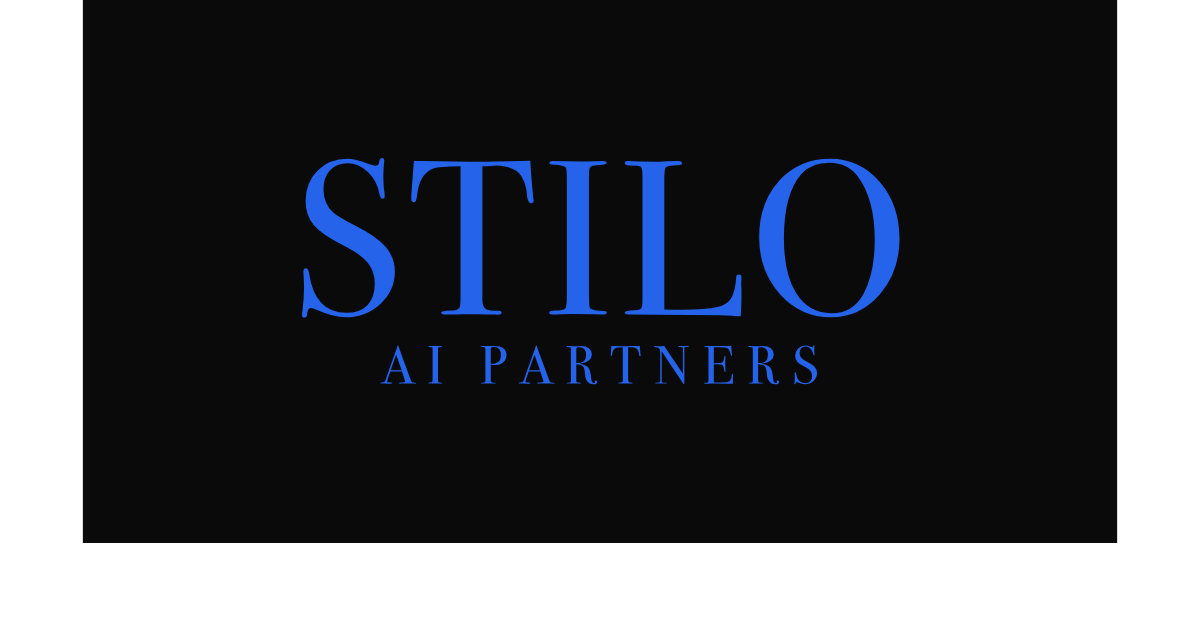
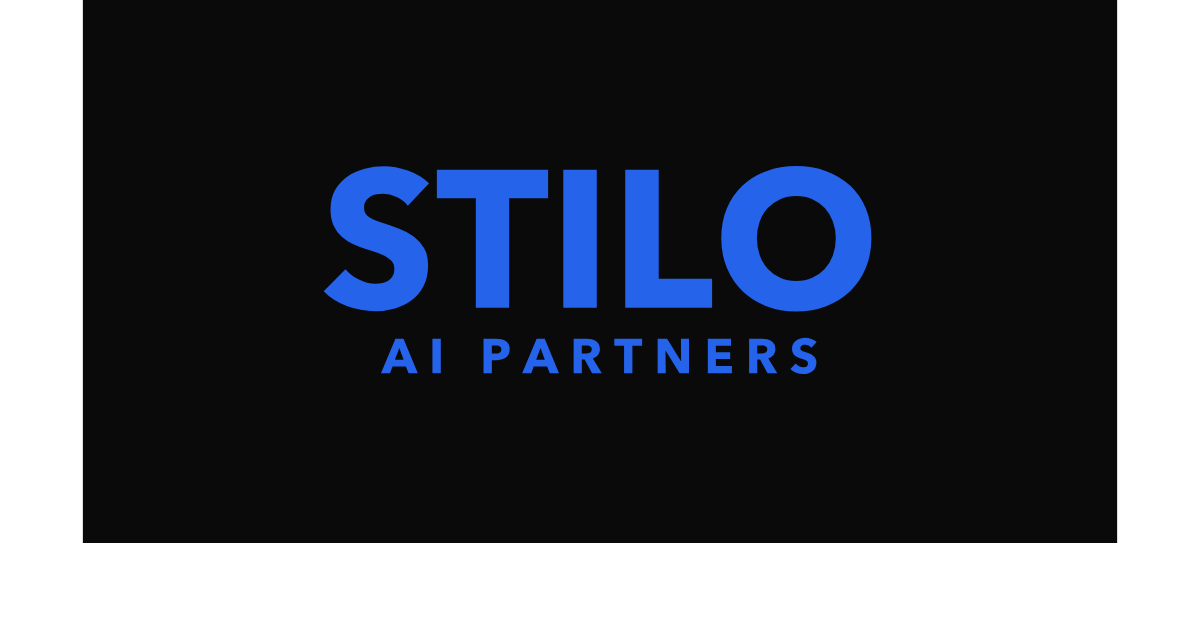
Switch wordmark + OG image to Avenir Next Bold
Brand now consistent: monogram, wordmark, and social share image
all use Avenir Next Bold modern sans. Cache-bust bumped to v=2026-05-05d.

Changed region(s): [[0.2467, 0.2413, 0.7708, 0.6333], [0.3083, 0.5429, 0.37, 0.6032]]

diff --git a/index.html b/index.html
@@ -13,7 +13,7 @@
 
     <meta http-equiv="Content-Security-Policy" content="default-src 'self'; script-src 'self' 'unsafe-inline' https://assets.calendly.com https://js.stripe.com https://va.vercel-scripts.com https://unpkg.com https://cdn.jsdelivr.net; style-src 'self' 'unsafe-inline' https://fonts.googleapis.com https://assets.calendly.com; font-src 'self' https://fonts.gstatic.com; img-src 'self' data: https:; connect-src 'self' https://formspree.io https://calendly.com https://api.stripe.com https://va.vercel-scripts.com https://unpkg.com https://cdn.jsdelivr.net; frame-src https://calendly.com https://js.stripe.com; form-action 'self' https://formspree.io; base-uri 'self';">
 
-    <link rel="icon" type="image/svg+xml" href="/favicon.svg?v=2026-05-05">
+    <link rel="icon" type="image/svg+xml" href="/favicon.svg?v=2026-05-05d">
     <script defer src="/_vercel/insights/script.js"></script>
 
     <link rel="preconnect" href="https://fonts.googleapis.com">

diff --git a/dashboard.html b/dashboard.html
@@ -3,7 +3,7 @@
 <head>
     <meta charset="UTF-8">
     <meta name="viewport" content="width=device-width, initial-scale=1.0">
-    <link rel="icon" type="image/svg+xml" href="/favicon.svg?v=2026-05-05">
+    <link rel="icon" type="image/svg+xml" href="/favicon.svg?v=2026-05-05d">
     <script>window.va = window.va || function () { (window.vaq = window.vaq || []).push(arguments); };</script>
     <script defer src="/_vercel/insights/script.js"></script>
     <title>STILO AI PARTNERS | Client Dashboard</title>

diff --git a/auth.html b/auth.html
@@ -3,7 +3,7 @@
 <head>
     <meta charset="UTF-8">
     <meta name="viewport" content="width=device-width, initial-scale=1.0">
-    <link rel="icon" type="image/svg+xml" href="/favicon.svg?v=2026-05-05">
+    <link rel="icon" type="image/svg+xml" href="/favicon.svg?v=2026-05-05d">
     <script>window.va = window.va || function () { (window.vaq = window.vaq || []).push(arguments); };</script>
     <script defer src="/_vercel/insights/script.js"></script>
     <title>STILO AI PARTNERS | Sign In</title>

diff --git a/app/agents/index.html b/app/agents/index.html
@@ -3,7 +3,7 @@
 <head>
 <meta charset="UTF-8">
 <meta name="viewport" content="width=device-width, initial-scale=1.0">
-<link rel="icon" type="image/svg+xml" href="/favicon.svg?v=2026-05-05">
+<link rel="icon" type="image/svg+xml" href="/favicon.svg?v=2026-05-05d">
 <script>window.va = window.va || function () { (window.vaq = window.vaq || []).push(arguments); };</script>
 <script defer src="/_vercel/insights/script.js"></script>
 <title>Agent | STILO AI PARTNERS</title>

diff --git a/scripts/build-logo.py b/scripts/build-logo.py
@@ -23,7 +23,8 @@ from fontTools.ttLib import TTCollection
 from fontTools.pens.svgPathPen import SVGPathPen
 
 REPO_ROOT = Path("/Users/remyleon/Desktop/AI Agency")
-FONT_PATH = Path("/System/Library/Fonts/Supplemental/Bodoni 72.ttc")
+FONT_PATH = Path("/System/Library/Fonts/Supplemental/Bodoni 72.ttc")  # serif, used for wordmark + og-image
+MONOGRAM_FONT_PATH = Path("/System/Library/Fonts/Avenir Next.ttc")    # modern sans, used for S monogram
 CHROME = "/Applications/Google Chrome.app/Contents/MacOS/Google Chrome"
 
 COLOR_BG = "#0A0A0A"
@@ -100,12 +101,18 @@ def line_group(glyphs, scale, total_units, viewbox_width, baseline_y_px, fill):
 
 
 def build_compact_square():
-    font = load_face("Bold")
-    # cap=56 + zero letter-spacing fits "STILO" Bold at ~216px wide in a 256 box
-    # (Bodoni Bold advance sum = 2692 units, scale = 56/698 = 0.0802 → 216px).
-    glyphs, total_units, scale = render_line(font, "STILO", cap_height_px=56, spacing_ratio=0.0)
-    # Baseline placed so the cap-block (top of caps to baseline) is vertically centered.
-    baseline_y = (256 + 56) / 2  # cap-top at 100, baseline at 156
+    """Single-letter 'S' monogram in Avenir Next Bold on the dark plate.
+
+    Avenir Next gives a modern geometric-humanist S — clean curves, slightly
+    warmer than Helvetica or Futura. Airbnb / Whole Foods territory.
+    """
+    ttc = TTCollection(str(MONOGRAM_FONT_PATH))
+    font = ttc.fonts[0]  # index 0 = Avenir Next Bold (verified via name table)
+    # Cap-height 144 fills the 256 plate generously (~56% of plate height).
+    # Avenir's S advance is narrower than Bodoni's so this stays well-padded.
+    glyphs, total_units, scale = render_line(font, "S", cap_height_px=144, spacing_ratio=0.0)
+    # Center vertically by cap-block: cap-top at (256-144)/2 = 56, baseline at 56+144 = 200.
+    baseline_y = (256 + 144) / 2
     body = line_group(glyphs, scale, total_units, viewbox_width=256, baseline_y_px=baseline_y, fill=COLOR_FG)
     svg = (
         '<svg xmlns="http://www.w3.org/2000/svg" viewBox="0 0 256 256">\n'
@@ -121,13 +128,17 @@ def build_compact_square():
 
 
 def build_wordmark():
-    font = load_face("Book")
-    big_glyphs, big_units, big_scale = render_line(font, "STILO", cap_height_px=200, spacing_ratio=0.04)
-    small_glyphs, small_units, small_scale = render_line(font, "AI PARTNERS", cap_height_px=56, spacing_ratio=0.30)
+    """Full STILO + AI PARTNERS wordmark in Avenir Next Bold, transparent bg."""
+    ttc = TTCollection(str(MONOGRAM_FONT_PATH))
+    font = ttc.fonts[0]  # Avenir Next Bold
+    big_glyphs, big_units, big_scale = render_line(font, "STILO", cap_height_px=180, spacing_ratio=0.0)
+    small_glyphs, small_units, small_scale = render_line(font, "AI PARTNERS", cap_height_px=44, spacing_ratio=0.30)
 
-    # Stack: top padding 52, STILO baseline at 52+200=252, gap 40, AI PARTNERS baseline at 252+40+56=348.
-    big_block = line_group(big_glyphs, big_scale, big_units, viewbox_width=1200, baseline_y_px=252, fill=COLOR_FG)
-    small_block = line_group(small_glyphs, small_scale, small_units, viewbox_width=1200, baseline_y_px=348, fill=COLOR_FG)
+    # Stack centered: STILO cap=180 + gap=40 + AI PARTNERS cap=44 = 264px content. Top pad (400-264)/2 = 68.
+    big_baseline = 68 + 180          # 248
+    small_baseline = big_baseline + 40 + 44  # 332
+    big_block = line_group(big_glyphs, big_scale, big_units, viewbox_width=1200, baseline_y_px=big_baseline, fill=COLOR_FG)
+    small_block = line_group(small_glyphs, small_scale, small_units, viewbox_width=1200, baseline_y_px=small_baseline, fill=COLOR_FG)
 
     svg = (
         '<svg xmlns="http://www.w3.org/2000/svg" viewBox="0 0 1200 400">\n'
@@ -140,16 +151,17 @@ def build_wordmark():
 
 
 def build_og_svg():
-    """1200x630 OG share image: dark plate, centered wordmark."""
-    font = load_face("Book")
-    big_glyphs, big_units, big_scale = render_line(font, "STILO", cap_height_px=180, spacing_ratio=0.04)
-    small_glyphs, small_units, small_scale = render_line(font, "AI PARTNERS", cap_height_px=44, spacing_ratio=0.34)
+    """1200x630 OG share image: dark plate, centered wordmark in Avenir Next Bold."""
+    ttc = TTCollection(str(MONOGRAM_FONT_PATH))
+    font = ttc.fonts[0]  # Avenir Next Bold
+    big_glyphs, big_units, big_scale = render_line(font, "STILO", cap_height_px=160, spacing_ratio=0.0)
+    small_glyphs, small_units, small_scale = render_line(font, "AI PARTNERS", cap_height_px=40, spacing_ratio=0.34)
 
     # Vertical stack centered in 630px frame.
-    # Content block: STILO cap=180, gap 36, AI PARTNERS cap=44 → total 260px.
-    top_pad = (630 - 260) / 2  # = 185
-    big_baseline = top_pad + 180             # 365
-    small_baseline = big_baseline + 36 + 44  # 445
+    # Content block: STILO cap=160, gap 36, AI PARTNERS cap=40 → total 236px.
+    top_pad = (630 - 236) / 2  # = 197
+    big_baseline = top_pad + 160             # 357
+    small_baseline = big_baseline + 36 + 40  # 433
 
     big_block = line_group(big_glyphs, big_scale, big_units, viewbox_width=1200, baseline_y_px=big_baseline, fill=COLOR_FG)
     small_block = line_group(small_glyphs, small_scale, small_units, viewbox_width=1200, baseline_y_px=small_baseline, fill=COLOR_FG)
